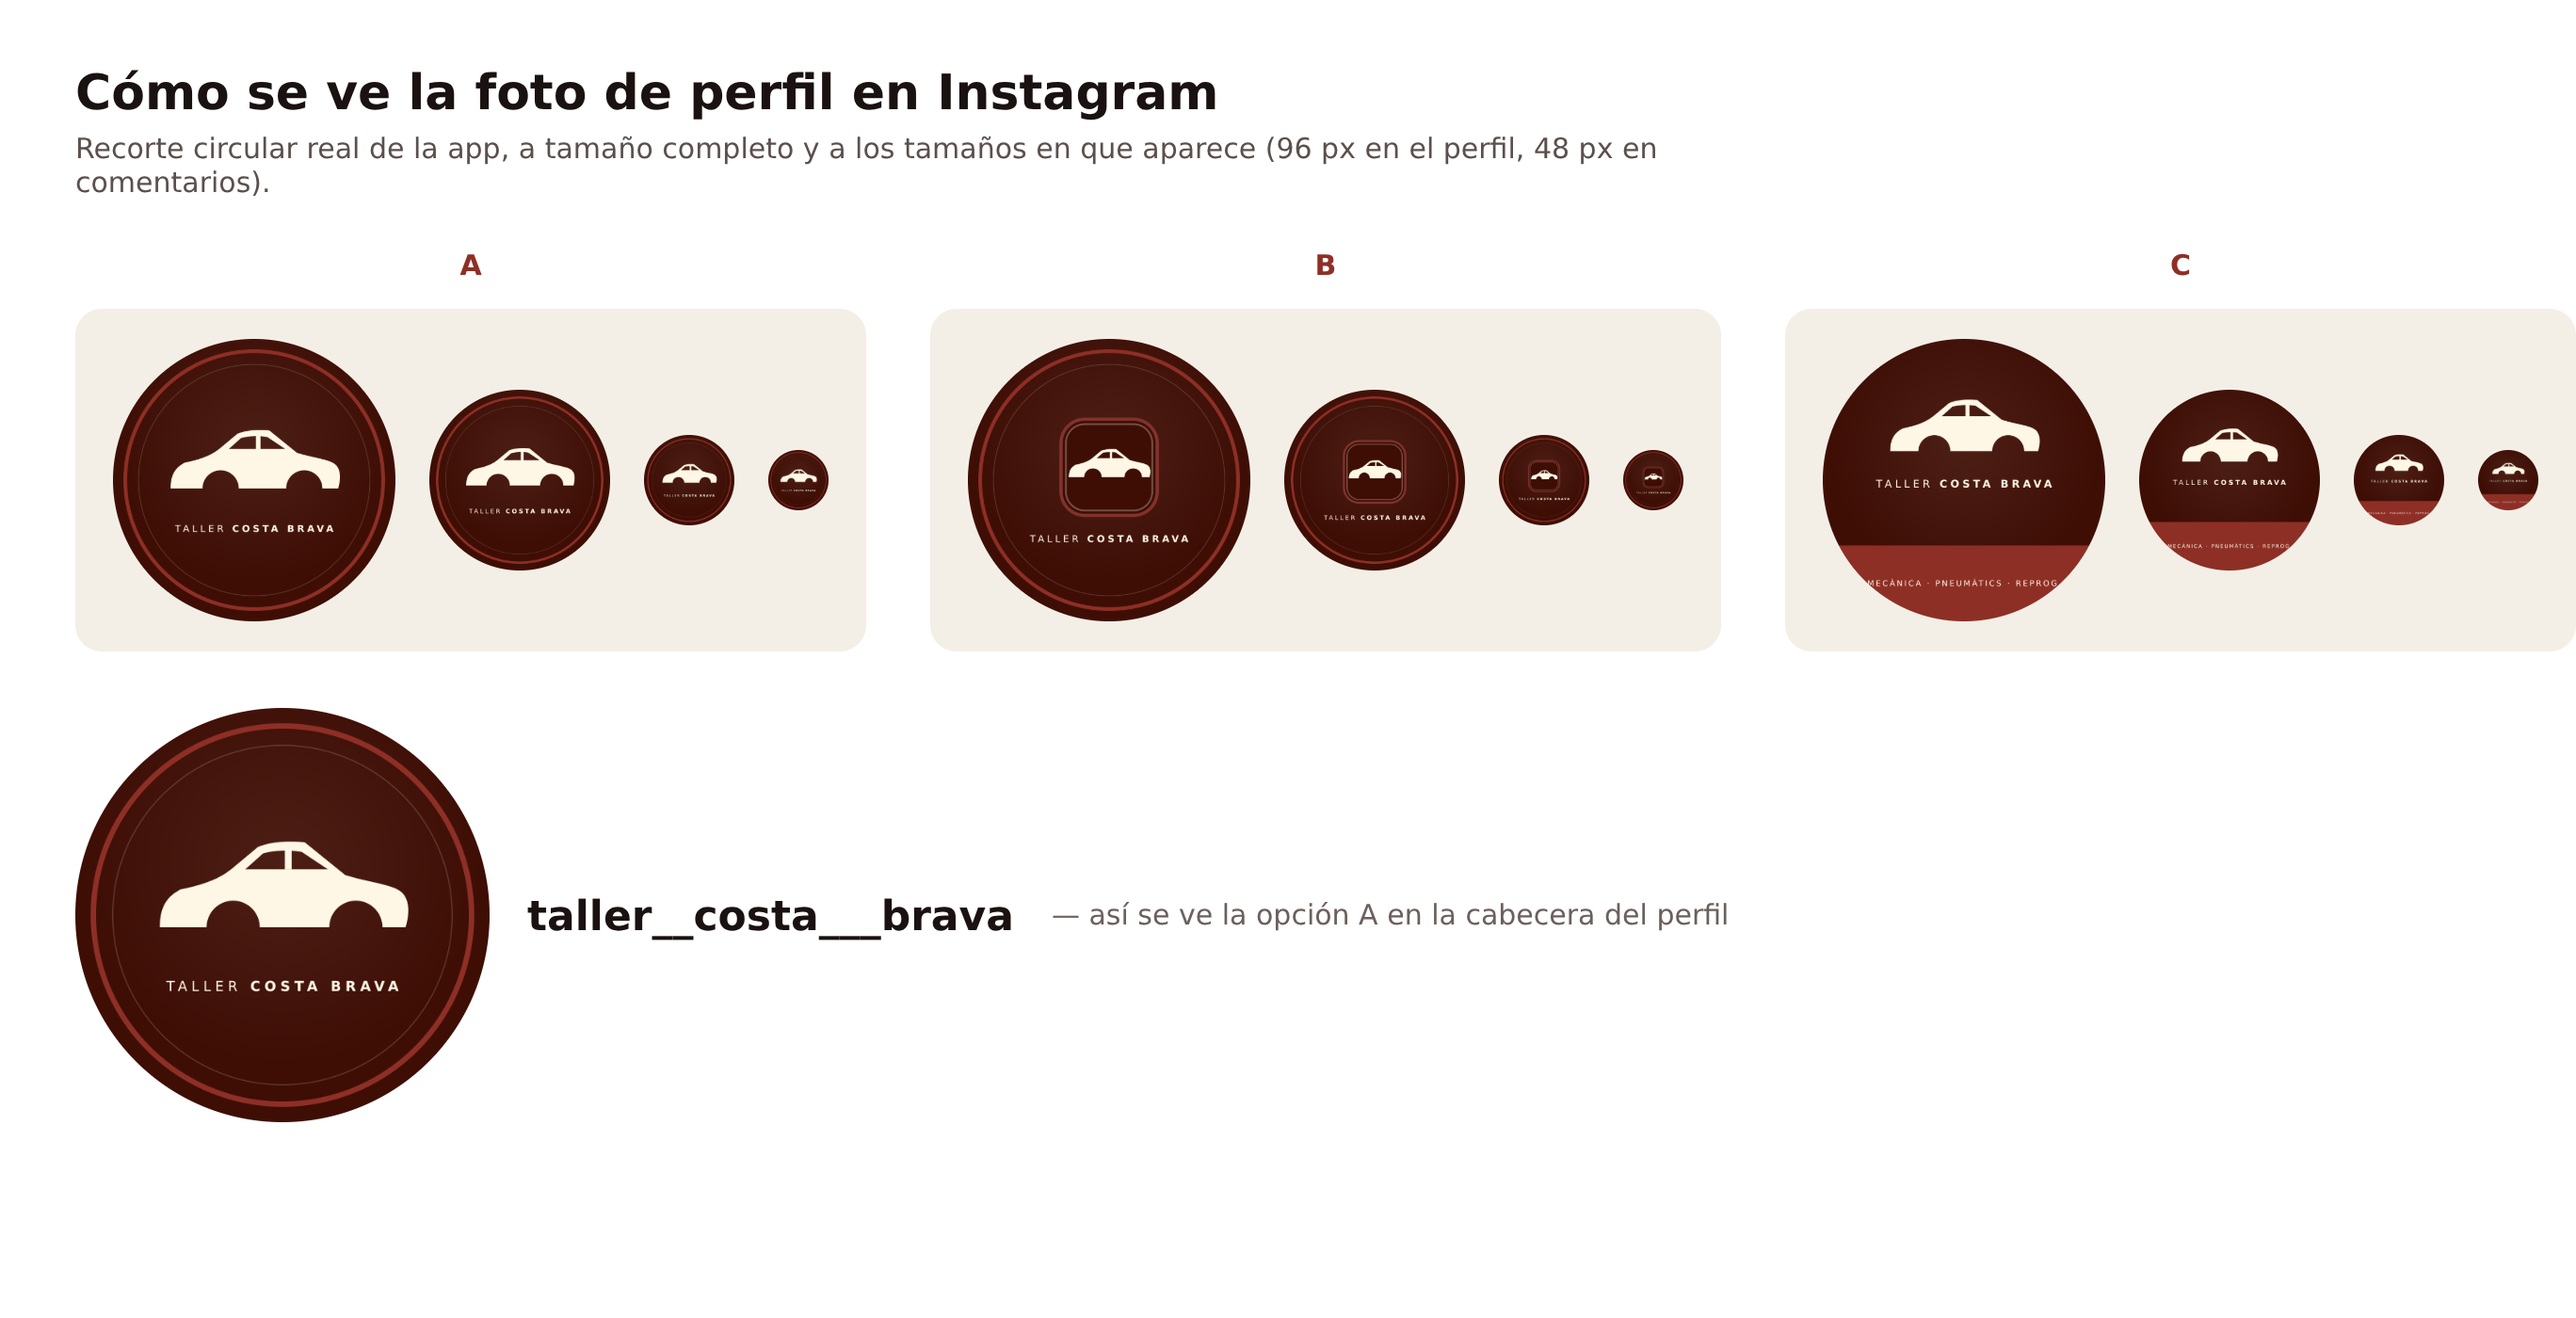
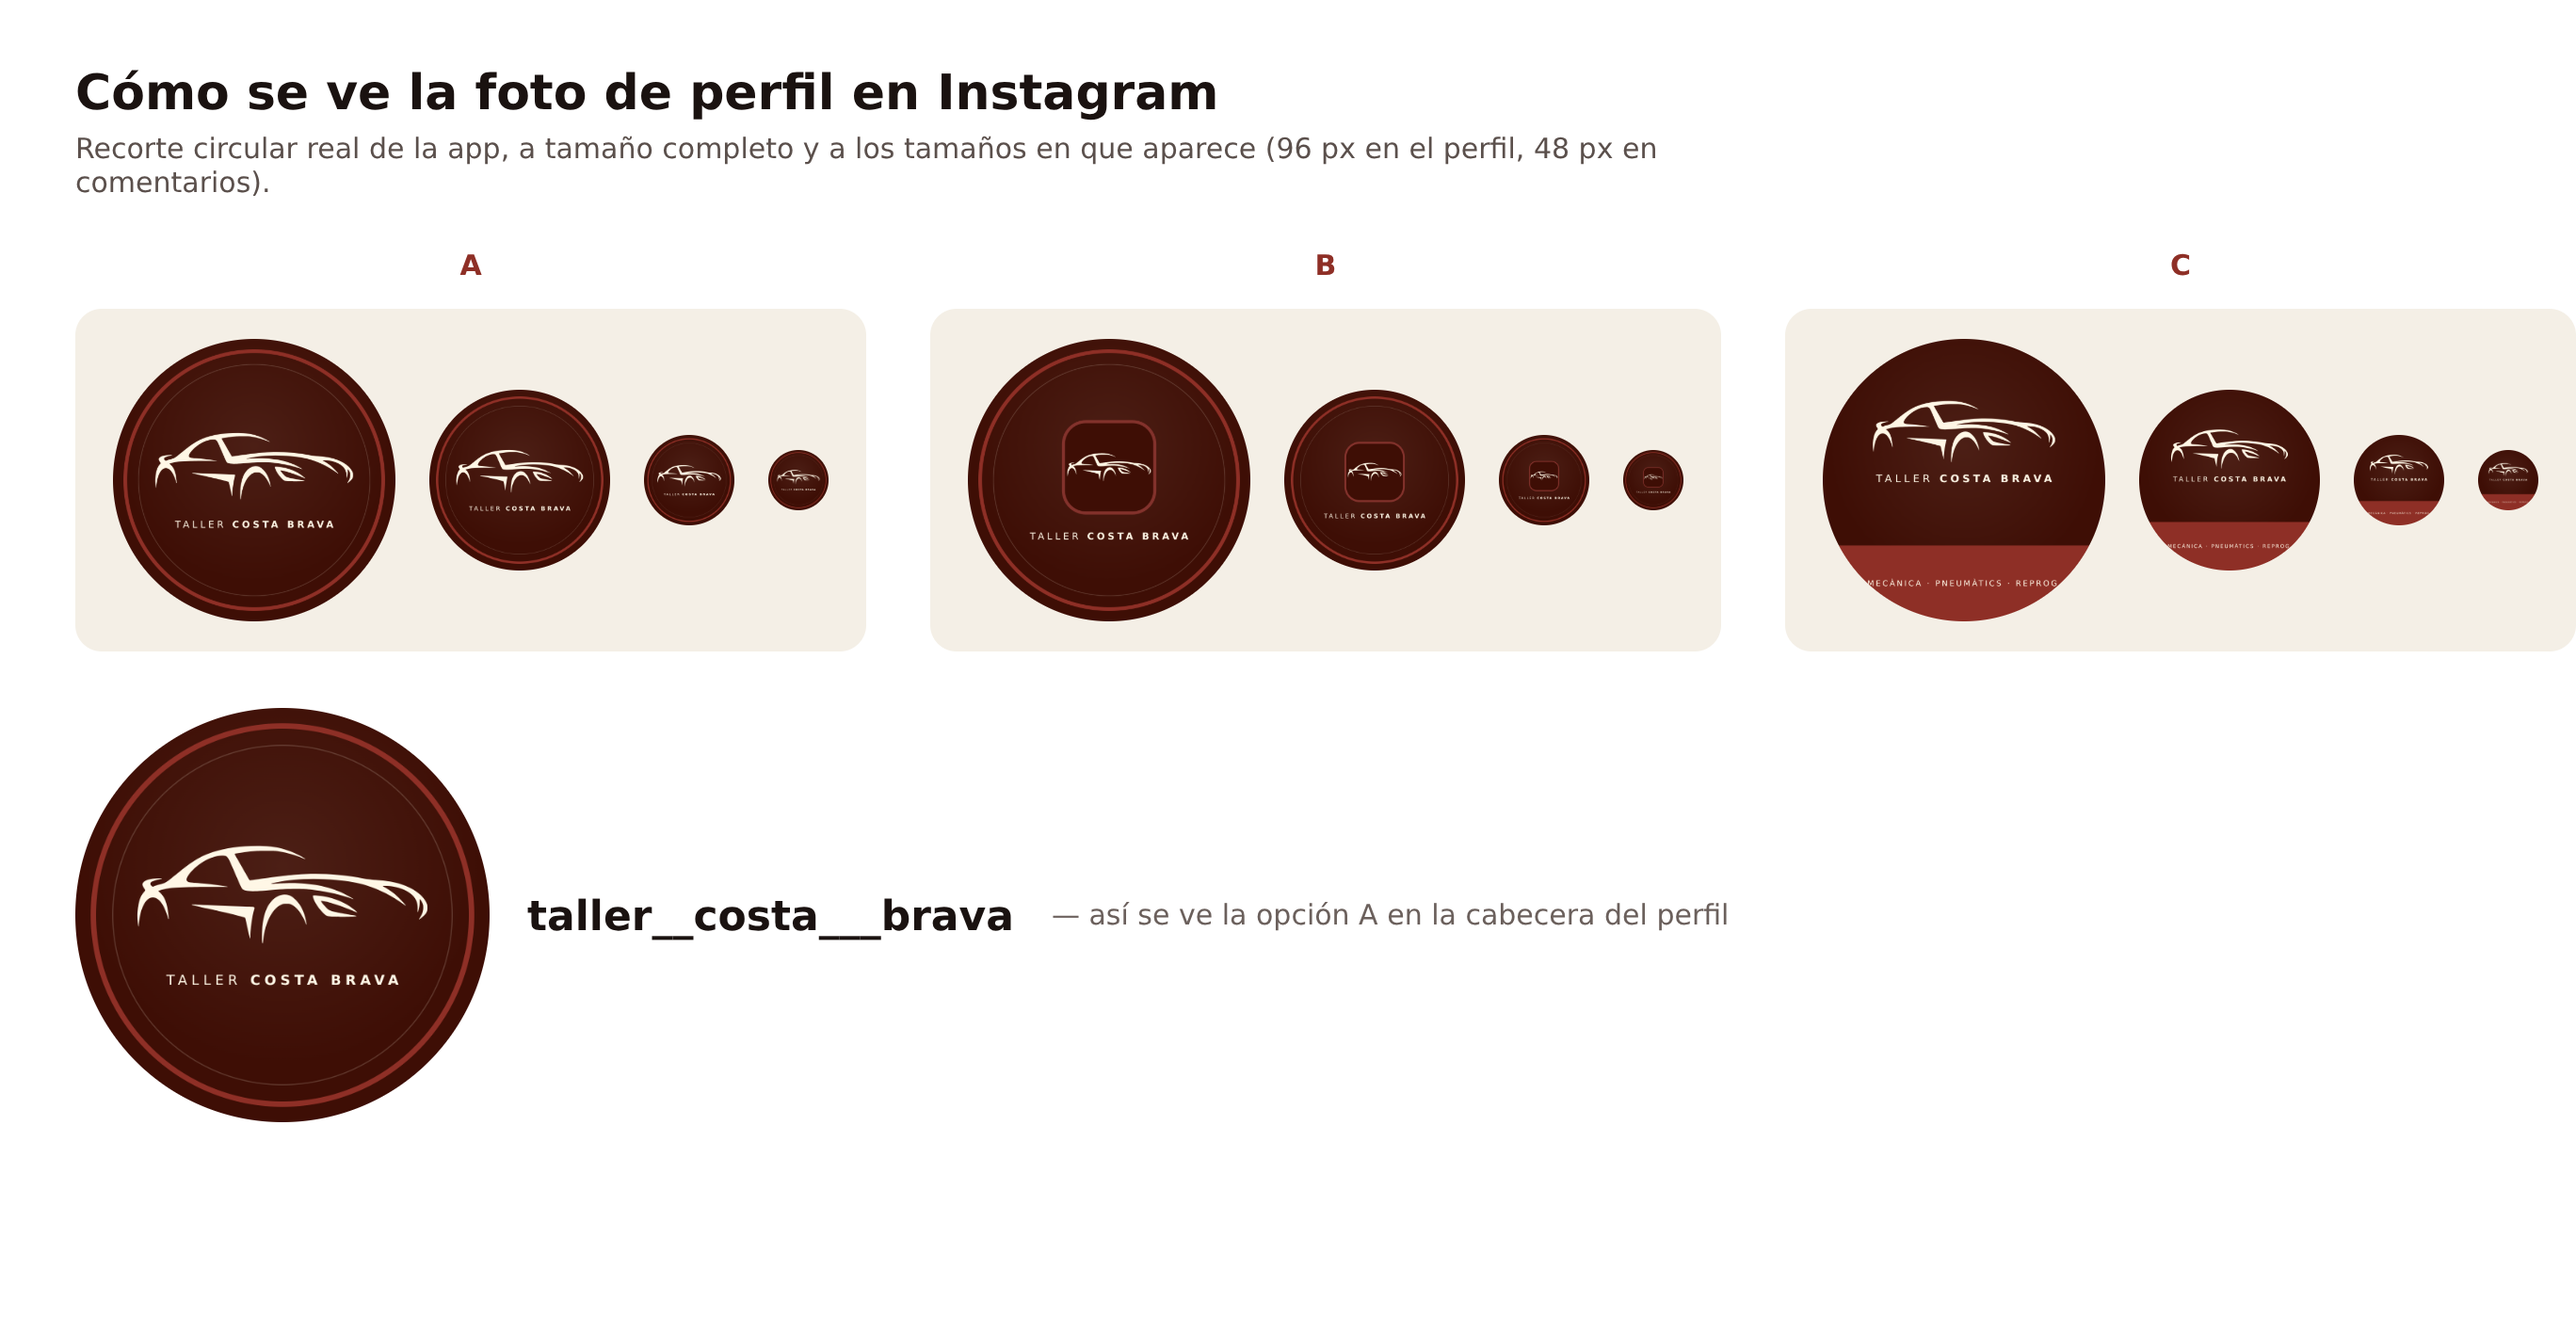
Sustituye el coche dibujado a mano por el trazado vectorial del cartel
El cliente paso la imagen limpia del coche del rotulo; se ha vectorizado (potrace) a un unico path con fill-rule evenodd, asi que el logo ya es el trazo real de la marca y no una recreacion.

En la cabecera y el pie el coche va en linea y hereda el color del texto con currentColor; el path se define una sola vez en un symbol y se reutiliza con use, asi que no se duplica en el HTML. Los iconos de app se regeneran desde la version con insignia (img/logo-mark.svg).

Las tres fotos de perfil de Instagram pasan a usar el mismo trazado leyendolo de img/logo-car.svg, con lo que web y redes no se pueden desincronizar.

diff --git a/index.html b/index.html
@@ -79,11 +79,19 @@
 
   <a class="skip-link" href="#contenido">Saltar al contenido</a>
 
+  <!-- El coche de la marca, definido una sola vez y reutilizado con <use>
+       en la cabecera y el pie. Hereda el color del texto (fill: currentColor). -->
+  <svg class="brand-sprite" aria-hidden="true" focusable="false" width="0" height="0">
+    <symbol id="marca-coche" viewBox="0 0 919 312">
+      <path fill-rule="evenodd" d="M395.62 306.88C394.39 300.71 394.99 263.47 396.50 251.97C399.29 230.87 403.97 212.59 409.88 199.74C423.94 169.16 449.70 151.61 474.07 156.01C484.08 157.81 491.25 162.17 502.00 173.01C518.07 189.19 527.73 209.25 534.05 239.52C535.17 244.87 535.84 249.49 535.54 249.79C534.80 250.54 534.74 250.43 531.66 242.38C527.96 232.74 517.47 214.58 510.89 206.42C504.43 198.41 495.52 190.93 488.00 187.22C483.07 184.78 481.41 184.50 472.00 184.50C461.85 184.50 461.24 184.63 453.64 188.34C426.31 201.70 404.51 245.73 398.73 299.25C398.09 305.16 397.27 310.00 396.91 310.00C396.55 310.00 395.97 308.59 395.62 306.88ZM349.62 261.75C345.84 244.01 342.24 228.99 341.62 228.37C340.62 227.37 290.53 214.44 272.50 210.54C268.65 209.70 261.68 208.15 257.00 207.09C252.32 206.03 236.12 202.41 221.00 199.06C205.88 195.71 190.80 192.34 187.50 191.57C184.20 190.81 179.59 189.88 177.25 189.50C174.91 189.13 173.00 188.38 173.00 187.83C173.00 187.20 178.62 187.06 188.75 187.45C215.43 188.48 251.71 189.90 293.50 191.56C315.50 192.43 342.05 193.45 352.50 193.82C374.58 194.61 372.74 192.94 368.65 208.50C363.67 227.45 358.04 268.87 358.01 286.75C358.01 290.74 357.66 294.00 357.25 294.00C356.83 294.00 353.40 279.49 349.62 261.75ZM2.98 238.25C1.95 224.03 1.93 217.81 2.92 207.00C5.55 178.12 11.74 159.61 22.68 147.91C25.06 145.37 27.00 142.73 27.00 142.04C27.00 141.35 25.65 138.79 24.00 136.34C16.58 125.35 16.16 121.59 21.75 116.04C28.68 109.15 43.06 105.32 65.75 104.33C81.20 103.65 84.38 104.71 73.25 106.82C64.28 108.52 49.45 113.54 45.87 116.09C41.32 119.33 42.17 124.85 47.83 128.88L50.67 130.90L56.58 128.53C59.84 127.22 67.41 124.95 73.42 123.48C88.14 119.88 92.51 117.62 106.67 106.24C113.33 100.88 126.37 90.39 135.64 82.92C178.55 48.36 203.68 33.66 241.00 21.31C279.97 8.42 326.52 1.99 380.81 2.01C423.85 2.02 450.44 6.44 485.10 19.33C498.87 24.45 529.83 40.29 531.57 43.11C531.88 43.61 529.74 43.07 526.82 41.90C495.95 29.58 476.36 23.94 448.50 19.32C439.41 17.82 431.94 17.51 405.50 17.55C372.85 17.60 360.67 18.55 328.50 23.52C323.00 24.37 316.36 25.34 313.75 25.67C310.88 26.04 309.00 26.78 309.00 27.56C309.00 28.26 312.44 34.83 316.65 42.17C320.85 49.50 331.24 67.65 339.73 82.50C348.22 97.35 355.47 109.79 355.83 110.15C356.20 110.51 361.00 110.16 366.50 109.37C376.40 107.95 387.49 106.42 409.25 103.48C415.44 102.64 425.45 101.28 431.50 100.46C487.65 92.81 523.49 89.99 563.94 90.02C608.00 90.06 653.74 93.96 694.00 101.11C700.33 102.23 709.10 103.79 713.50 104.57C726.60 106.90 743.49 108.86 760.50 110.00C782.71 111.50 800.21 114.10 818.50 118.61C863.14 129.62 899.82 153.49 912.82 180.00C916.28 187.04 916.50 188.08 916.50 197.00C916.49 208.10 915.17 211.37 907.08 220.22C901.68 226.13 892.03 234.00 890.18 234.00C889.55 234.00 891.25 230.62 893.94 226.49C900.90 215.83 903.49 207.70 903.50 196.48C903.50 188.34 903.19 186.82 900.29 180.94C898.53 177.36 895.94 173.35 894.54 172.04L892.00 169.65L891.96 180.08C891.93 190.06 890.82 197.54 887.99 206.75C887.27 209.09 886.37 211.00 885.98 211.00C885.59 211.00 885.48 206.84 885.73 201.75C886.60 184.23 881.66 170.09 870.79 158.94C853.64 141.36 822.93 129.89 788.75 128.29C780.93 127.93 776.00 128.07 776.00 128.65C776.00 129.17 778.04 130.59 780.54 131.81C787.34 135.11 803.52 145.86 812.00 152.71C822.94 161.54 851.08 191.00 848.57 191.00C848.25 191.00 844.72 188.60 840.74 185.67C805.30 159.58 764.35 138.83 723.65 126.33C697.89 118.42 669.70 113.45 628.50 109.55C560.89 103.16 494.37 105.82 440.06 117.10C434.80 118.19 429.04 119.35 427.25 119.67C421.69 120.68 423.65 122.13 429.75 121.53C440.54 120.47 474.47 119.01 488.50 119.01C514.30 119.02 548.76 122.09 572.09 126.47C600.04 131.72 631.21 141.70 652.50 152.23C666.17 158.99 683.00 168.41 683.00 169.31C683.00 169.78 682.44 169.93 681.75 169.65C681.06 169.36 673.52 166.82 665.00 164.00C630.58 152.61 589.57 144.10 546.00 139.32C520.25 136.49 471.74 136.92 436.12 140.29C376.99 145.87 347.97 146.09 338.02 141.01C330.94 137.40 332.56 140.61 301.36 68.04C286.70 33.93 285.37 32.49 268.50 32.66C240.64 32.93 204.89 50.32 178.35 76.50C157.60 96.97 151.94 111.15 162.71 115.65C165.02 116.62 173.31 117.73 184.47 118.57C210.03 120.49 224.36 121.87 241.00 124.01C268.11 127.51 288.00 130.46 288.00 130.98C288.00 131.27 267.86 131.34 243.25 131.16C192.10 130.76 129.82 132.30 110.00 134.44C97.95 135.74 78.46 139.95 70.63 142.95L67.76 144.04L74.40 150.13C88.49 163.04 96.00 182.81 99.54 216.35C100.34 223.97 101.00 230.84 101.00 231.61C101.00 234.32 99.24 232.95 98.61 229.75C97.02 221.60 90.31 203.53 85.23 193.70C73.64 171.28 59.19 161.19 44.70 165.40C31.03 169.37 19.22 187.21 12.40 214.22C9.92 224.00 6.01 247.88 6.00 253.25C6.00 254.76 5.61 256.00 5.14 256.00C4.66 256.00 3.69 248.01 2.98 238.25ZM619.42 225.04C599.37 223.55 597.73 222.95 588.16 213.63C578.08 203.82 569.69 192.91 563.64 181.78C558.67 172.62 554.46 160.69 555.56 158.91C556.94 156.67 586.98 160.01 606.90 164.63C627.80 169.47 653.78 180.68 671.36 192.43C682.13 199.63 696.38 210.95 695.62 211.71C695.35 211.98 688.92 209.61 681.32 206.44C646.70 192.01 605.73 178.52 590.50 176.54C587.75 176.18 584.49 175.68 583.25 175.43C581.94 175.16 581.00 175.45 581.00 176.12C581.00 177.79 591.37 190.40 598.98 198.00C605.82 204.83 608.70 206.20 623.50 209.69C632.26 211.75 668.69 218.53 681.75 220.52C687.94 221.47 693.00 222.57 693.00 222.98C693.00 223.39 690.41 224.01 687.25 224.35C677.44 225.44 631.08 225.90 619.42 225.04Z"/>
+    </symbol>
+  </svg>
+
   <!-- ======= HEADER ======= -->
   <header class="site-header" id="header">
     <div class="wrap header-inner">
       <a href="#inicio" class="brand" aria-label="Taller Costa Brava — inicio">
-        <img src="img/logo-mark.svg" alt="" class="brand-logo" width="52" height="52" decoding="async" />
+        <svg class="brand-car" viewBox="0 0 919 312" aria-hidden="true" focusable="false"><use href="#marca-coche" /></svg>
         <span class="brand-text">TALLER <strong>COSTA BRAVA</strong></span>
       </a>
 
@@ -338,7 +346,7 @@
     <div class="wrap footer-grid">
       <div>
         <a href="#inicio" class="brand brand-footer" aria-label="Taller Costa Brava — inicio">
-          <img src="img/logo-mark.svg" alt="" class="brand-logo" width="72" height="72" loading="lazy" decoding="async" />
+          <svg class="brand-car" viewBox="0 0 919 312" aria-hidden="true" focusable="false"><use href="#marca-coche" /></svg>
           <span class="brand-text">TALLER <strong>COSTA BRAVA</strong></span>
         </a>
         <p>Taller de reparación de automóviles en Sant Feliu de Guíxols. Mecánica, neumáticos, reprogramaciones, diagnosis, pre-ITV e ITV.</p>

diff --git a/css/styles.css b/css/styles.css
@@ -82,8 +82,9 @@ img { max-width: 100%; display: block; }
 .site-header.scrolled { border-color: var(--line); box-shadow: 0 6px 20px rgba(0,0,0,.06); }
 .header-inner { display: flex; align-items: center; justify-content: space-between; height: 76px; gap: 1rem; }
 .brand { display: flex; align-items: center; gap: .65rem; text-decoration: none; color: var(--ink); }
-.brand-logo { width: 52px; height: 52px; flex: none; }
-.brand-footer .brand-logo { width: 72px; height: 72px; }
+.brand-sprite { position: absolute; width: 0; height: 0; overflow: hidden; }
+.brand-car { width: 104px; height: auto; flex: none; fill: currentColor; }
+.brand-footer .brand-car { width: 132px; }
 .brand-footer .brand-text { font-size: 1.1rem; }
 .brand-text { font-weight: 600; letter-spacing: .06em; font-size: 1rem; white-space: nowrap; }
 .brand-text strong { font-weight: 900; }
@@ -284,7 +285,8 @@ img { max-width: 100%; display: block; }
   .footer-grid { grid-template-columns: 1fr; gap: 1.6rem; }
   .hero-content { padding: 4.5rem 1.25rem; }
   .brand-text { font-size: .85rem; }
-  .brand-logo { width: 46px; height: 46px; }
+  .brand-car { width: 78px; }
+  .brand-footer .brand-car { width: 110px; }
 }
 
 /* ---------- Accesibilidad: reducir movimiento ---------- */

diff --git a/README.md b/README.md
@@ -42,7 +42,8 @@ TallerCostaBrava/
 ├── css/styles.css
 ├── js/main.js
 ├── img/
-│   ├── logo-mark.svg        (emblema vectorial: header, footer y favicon)
+│   ├── logo-car.svg         (el coche de la marca, vectorial)
+│   ├── logo-mark.svg        (el coche en la insignia: favicon e iconos)
 │   ├── icon-192.png         (icono de app, generado desde el emblema)
 │   ├── icon-512.png         (icono de app)
 │   ├── icon-maskable-512.png(icono de app con zona segura de Android)
@@ -58,31 +59,35 @@ TallerCostaBrava/
 
 ## Marca
 
-La marca sale del **cartel de la fachada del taller**: el coche de perfil y el nombre
-"TALLER COSTA BRAVA". El emblema del sitio es una recreación vectorial de ese coche.
+La marca es **el coche del cartel de la fachada del taller**. Partimos de la foto del rótulo
+que aportó el cliente y el dibujo se ha **trazado a vectorial** (un único `path` con
+`fill-rule="evenodd"`), así que ya no es una recreación aproximada sino el mismo trazo del
+cartel, nítido a cualquier tamaño.
 
 | Archivo | Qué es | Dónde se usa |
 |---|---|---|
-| `img/logo-mark.svg` | Emblema vectorial: coche de perfil dentro de la insignia granate, **sin texto** | Header (52 px), footer (72 px), favicon, iconos de app |
-| `img/icon-192.png` · `img/icon-512.png` · `img/icon-maskable-512.png` | 192 / 512 / 512 px, generados desde el emblema | PWA y pantalla de inicio (Android) |
-| `img/apple-touch-icon.png` | 180 × 180 px, generado desde el emblema | iOS (guardar en inicio) |
+| `img/logo-car.svg` | El coche solo, `fill="currentColor"` (hereda el color del texto) | Cabecera (104 px de ancho) y pie (132 px) |
+| `img/logo-mark.svg` | El coche dentro de la insignia granate | Favicon y generación de los iconos de app |
+| `img/icon-192.png` · `img/icon-512.png` · `img/icon-maskable-512.png` | 192 / 512 / 512 px | PWA y pantalla de inicio (Android) |
+| `img/apple-touch-icon.png` | 180 × 180 px | iOS (guardar en inicio) |
 | `img/logo.png` | Logotipo antiguo que aportó el cliente | **Sin uso**: se conserva solo como archivo histórico |
 
-**Por qué un emblema sin texto:** la tipografía de la insignia original es ilegible por
-debajo de ~120 px, así que a tamaño de cabecera (52 px) se usa el símbolo y el nombre lo
-escribe el HTML, siempre nítido. Antes el emblema eran dos pistones cruzados; ahora es el
-coche del cartel, que es lo que la gente asocia al taller cuando pasa por delante.
+**Cómo se monta en la web:** el `path` se define **una sola vez** en un `<symbol id="marca-coche">`
+al principio del `<body>` y la cabecera y el pie lo pintan con `<use href="#marca-coche">`. Así
+el HTML no repite los ~5 KB del trazado, el color lo pone el CSS (`fill: currentColor`, tinta en
+la cabecera y crema en el pie) y si algún día cambia el dibujo se cambia en un único sitio.
 
-**Cómo está dibujado** (`viewBox="0 0 64 64"`, ~1 KB):
+**Por qué el nombre va en HTML:** la tipografía del coche es un trazo, no un texto; el nombre
+"TALLER COSTA BRAVA" se escribe con la tipografía del sistema, siempre nítido y seleccionable,
+y el coche queda como símbolo decorativo (`aria-hidden="true"`), con el nombre accesible en
+`aria-label` del enlace.
 
-- Carrocería en **crema `#fff7e6`** sobre insignia granate `#3e0e05` con aro `#83322c`.
-- Las ventanillas, el pilar B y las ruedas van **recortados** en el color de la insignia,
-  así que el coche se lee igual a 512 px que a 32 px, sin líneas finas que se pierdan.
-- Sin degradados ni sombras: se ve idéntico en pantalla, en un icono de app y en impresión.
+**Proporciones:** el dibujo es apaisado (919 × 312, casi 3:1). Por eso en la cabecera se usa a
+104 px de ancho (35 px de alto) y en el pie a 132 px; en la insignia cuadrada del favicon va
+centrado con aire arriba y abajo, que es lo que permite el formato cuadrado.
 
-> Si algún día llega el logo en vectorial del diseñador, basta con sustituir
-> `img/logo-mark.svg` manteniendo el mismo `viewBox="0 0 64 64"`; los PNG de `img/` se
-> regeneran rasterizando ese mismo SVG (con `sharp`, o con cualquier exportador de SVG).
+> Si el diseñador entrega el original (SVG/AI/PDF), basta con sustituir el `path` de
+> `img/logo-car.svg` y volver a generar los PNG de `img/` y las fotos de `marca/`.
 
 ### Iconos
 
@@ -127,7 +132,9 @@ Se sube tal cual desde el móvil o el ordenador (Instagram la recorta en círcul
 a 320 px). La opción A es la que mejor aguanta ese recorte: el coche sigue leyéndose y el
 nombre no se convierte en una mancha.
 
-Para regenerarlas tras cambiar el coche del emblema:
+El script lee el trazado directamente de `img/logo-car.svg`, así que si cambia el coche de la
+marca basta con volver a ejecutarlo (y los iconos de `img/` se regeneran rasterizando
+`img/logo-mark.svg`, que sale del mismo dibujo):
 
 ```bash
 npm i puppeteer-core @sparticuz/chromium
